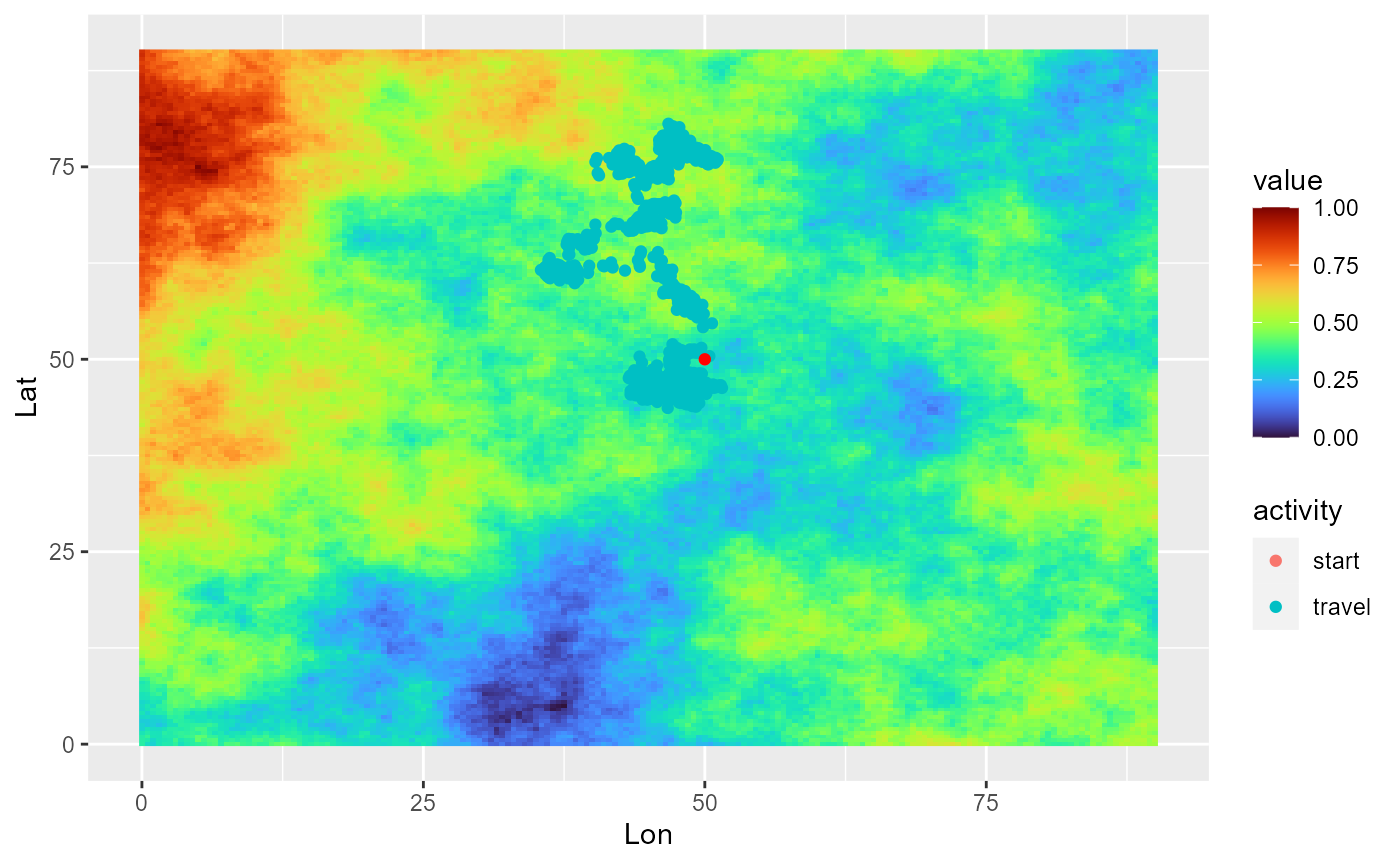
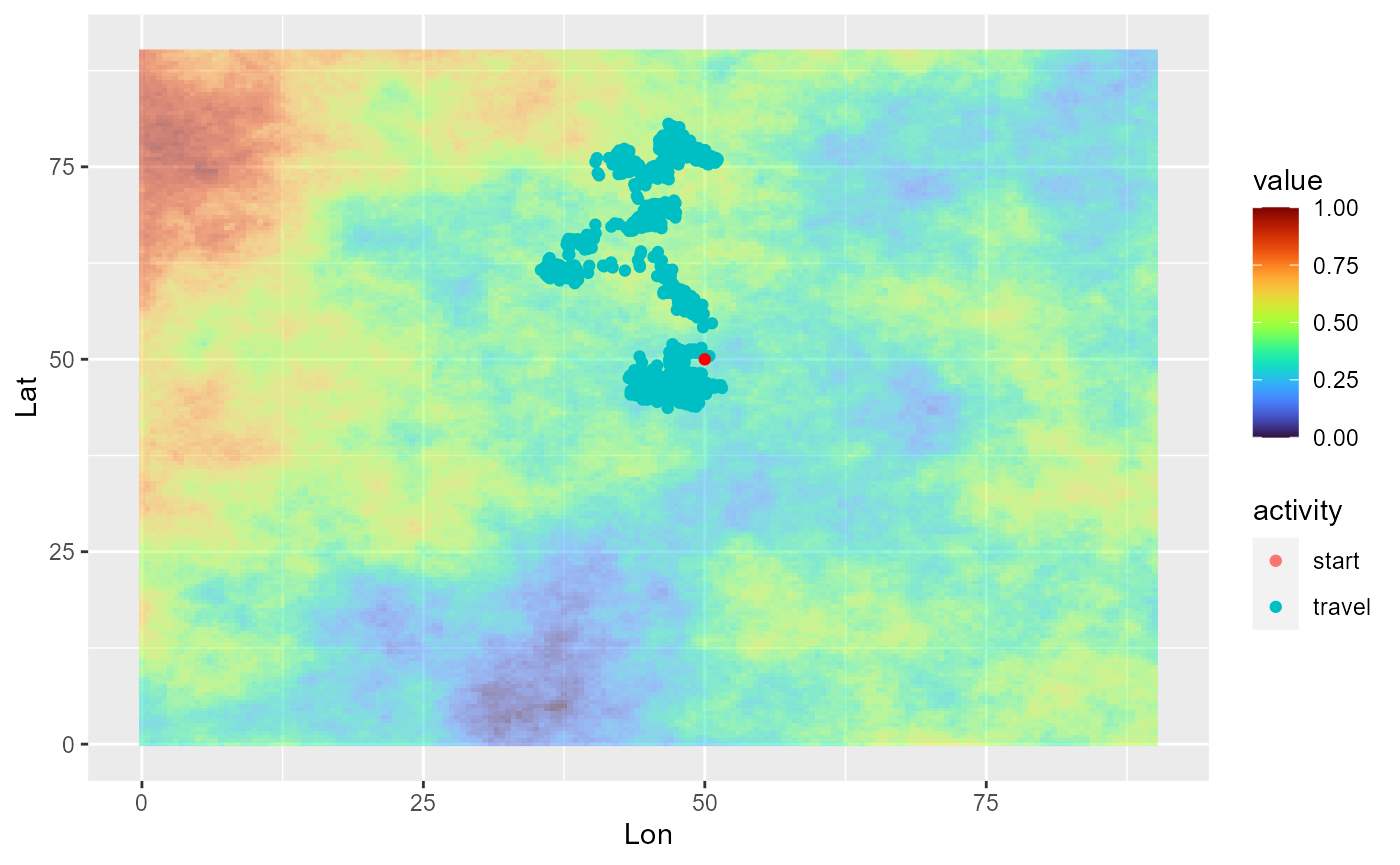
same as previous

diff --git a/inst/site/articles/simulate-virtual-environment.html b/inst/site/articles/simulate-virtual-environment.html
@@ -122,23 +122,12 @@ frame and raster formats (SpatRast).</p>
 <span><span class="co">#&gt;  $ y   : num  0 0 0 0 0 0 0 0 0 0 ...</span></span>
 <span><span class="co">#&gt;  $ sim1: num  4.71 5.35 4.81 7.42 6.74 ...</span></span>
 <span><span class="co">#&gt;  $ sim2: num  -0.377 -0.575 -0.766 -3.876 -4.276 ...</span></span>
-<span><span class="fu"><a href="https://rdrr.io/r/utils/str.html" class="external-link">str</a></span><span class="op">(</span><span class="fu"><a href="../reference/generate_env_layer.html">generate_env_layer</a></span><span class="op">(</span>norm <span class="op">=</span> <span class="cn">TRUE</span>, return_rasters <span class="op">=</span> <span class="cn">FALSE</span>, grid <span class="op">=</span> <span class="va">grid</span><span class="op">)</span><span class="op">)</span></span>
-<span><span class="co">#&gt; [using unconditional Gaussian simulation]</span></span>
-<span><span class="co">#&gt; 'data.frame':    32761 obs. of  4 variables:</span></span>
-<span><span class="co">#&gt;  $ x   : num  0 0.5 1 1.5 2 2.5 3 3.5 4 4.5 ...</span></span>
-<span><span class="co">#&gt;  $ y   : num  0 0 0 0 0 0 0 0 0 0 ...</span></span>
-<span><span class="co">#&gt;  $ sim1: num  0.213 0.234 0.217 0.301 0.279 ...</span></span>
-<span><span class="co">#&gt;  $ sim2: num  0.455 0.45 0.445 0.367 0.357 ...</span></span>
 <span></span>
 <span><span class="kw"><a href="https://rdrr.io/r/base/library.html" class="external-link">library</a></span><span class="op">(</span><span class="va"><a href="https://rspatial.org/terra/" class="external-link">terra</a></span><span class="op">)</span></span>
 <span><span class="co">#&gt; terra 1.7.18</span></span>
 <span><span class="fu"><a href="https://rdrr.io/pkg/terra/man/plot.html" class="external-link">plot</a></span><span class="op">(</span><span class="fu"><a href="../reference/generate_env_layer.html">generate_env_layer</a></span><span class="op">(</span>norm <span class="op">=</span> <span class="cn">TRUE</span>, return_rasters <span class="op">=</span> <span class="cn">TRUE</span>, grid <span class="op">=</span> <span class="va">grid</span><span class="op">)</span><span class="op">$</span><span class="va">rasters</span><span class="op">)</span></span>
 <span><span class="co">#&gt; [using unconditional Gaussian simulation]</span></span></code></pre></div>
 <p><img src="simulate-virtual-environment_files/figure-html/example-generate_env_layer-1.png" width="700"></p>
-<div class="sourceCode" id="cb4"><pre class="downlit sourceCode r">
-<code class="sourceCode R"><span><span class="fu"><a href="https://rdrr.io/pkg/terra/man/plot.html" class="external-link">plot</a></span><span class="op">(</span><span class="fu"><a href="../reference/generate_env_layer.html">generate_env_layer</a></span><span class="op">(</span>norm <span class="op">=</span> <span class="cn">FALSE</span>, return_rasters <span class="op">=</span> <span class="cn">TRUE</span>, grid <span class="op">=</span> <span class="va">grid</span><span class="op">)</span><span class="op">$</span><span class="va">rasters</span><span class="op">)</span></span>
-<span><span class="co">#&gt; [using unconditional Gaussian simulation]</span></span></code></pre></div>
-<p><img src="simulate-virtual-environment_files/figure-html/example-generate_env_layer-2.png" width="700"></p>
 </div>
 <div class="section level2">
 <h2 id="build-the-suitability-layer">Build the suitability layer<a class="anchor" aria-label="anchor" href="#build-the-suitability-layer"></a>
@@ -150,7 +139,7 @@ function, where a given environmental layer is simply scaled by the beta
 parameter (env*beta) and several leveraged env layers are additively
 combined. For more elaborate procedures, see the <a href="https://borisleroy.com/files/virtualspecies-tutorial.html" class="external-link">virtualspecies
 package</a>.</p>
-<div class="sourceCode" id="cb5"><pre class="downlit sourceCode r">
+<div class="sourceCode" id="cb4"><pre class="downlit sourceCode r">
 <code class="sourceCode R"><span><span class="kw"><a href="https://rdrr.io/r/base/library.html" class="external-link">library</a></span><span class="op">(</span><span class="va"><a href="https://rspatial.org/terra/" class="external-link">terra</a></span><span class="op">)</span></span>
 <span><span class="co"># simple example</span></span>
 <span><span class="va">grid</span> <span class="op">&lt;-</span> <span class="fu"><a href="../reference/create_grid.html">create_grid</a></span><span class="op">(</span><span class="op">)</span></span>
@@ -167,7 +156,7 @@ package</a>.</p>
 <span><span class="co">#&gt;  $ rasters  :S4 class 'SpatRaster' [package "terra"]</span></span>
 <span><span class="fu"><a href="https://rdrr.io/pkg/terra/man/plot.html" class="external-link">plot</a></span><span class="op">(</span><span class="va">rsce</span><span class="op">$</span><span class="va">rasters</span><span class="op">)</span></span></code></pre></div>
 <p><img src="simulate-virtual-environment_files/figure-html/example-generate_resource_layer-1.png" width="700"></p>
-<div class="sourceCode" id="cb6"><pre class="downlit sourceCode r">
+<div class="sourceCode" id="cb5"><pre class="downlit sourceCode r">
 <code class="sourceCode R"><span></span>
 <span><span class="co"># also works when coordinates are not names x,y</span></span>
 <span><span class="va">cdt2</span> <span class="op">&lt;-</span> <span class="fu"><a href="../reference/generate_env_layer.html">generate_env_layer</a></span><span class="op">(</span>grid <span class="op">=</span> <span class="va">grid</span>, n <span class="op">=</span> <span class="fl">3</span><span class="op">)</span><span class="op">$</span><span class="va">dataframe</span> <span class="op">|&gt;</span> <span class="fu">dplyr</span><span class="fu">::</span><span class="fu"><a href="https://dplyr.tidyverse.org/reference/rename.html" class="external-link">rename</a></span><span class="op">(</span>lon <span class="op">=</span> <span class="va">x</span>, lat <span class="op">=</span> <span class="va">y</span><span class="op">)</span></span>

diff --git a/inst/site/reference/simulate_trajectory_CPF.html b/inst/site/reference/simulate_trajectory_CPF.html
@@ -217,7 +217,7 @@ When individuals reaches the threshold distance to colony (max_dist), or the tri
 <span class="r-in"><span></span></span>
 <span class="r-in"><span><span class="co"># view the trajectory</span></span></span>
 <span class="r-in"><span><span class="fu"><a href="https://ggplot2.tidyverse.org/reference/ggplot.html" class="external-link">ggplot</a></span><span class="op">(</span><span class="va">single_traj</span><span class="op">)</span> <span class="op">+</span></span></span>
-<span class="r-in"><span>  <span class="fu"><a href="https://dieghernan.github.io/tidyterra/reference/geom_spatraster.html" class="external-link">geom_spatraster</a></span><span class="op">(</span>data <span class="op">=</span> <span class="va">cdt</span><span class="op">$</span><span class="va">rasters</span><span class="op">)</span> <span class="op">+</span> </span></span>
+<span class="r-in"><span>  <span class="fu"><a href="https://dieghernan.github.io/tidyterra/reference/geom_spatraster.html" class="external-link">geom_spatraster</a></span><span class="op">(</span>data <span class="op">=</span> <span class="va">cdt</span><span class="op">$</span><span class="va">rasters</span>, alpha <span class="op">=</span> <span class="fl">0.5</span><span class="op">)</span> <span class="op">+</span> </span></span>
 <span class="r-in"><span>  <span class="fu"><a href="https://ggplot2.tidyverse.org/reference/geom_point.html" class="external-link">geom_point</a></span><span class="op">(</span><span class="fu"><a href="https://ggplot2.tidyverse.org/reference/aes.html" class="external-link">aes</a></span><span class="op">(</span>x <span class="op">=</span> <span class="va">Lon</span>, y <span class="op">=</span> <span class="va">Lat</span>, color <span class="op">=</span> <span class="va">activity</span><span class="op">)</span><span class="op">)</span> <span class="op">+</span></span></span>
 <span class="r-in"><span>  <span class="fu"><a href="https://ggplot2.tidyverse.org/reference/geom_point.html" class="external-link">geom_point</a></span><span class="op">(</span>data <span class="op">=</span> <span class="va">colony_location</span>, <span class="fu"><a href="https://ggplot2.tidyverse.org/reference/aes.html" class="external-link">aes</a></span><span class="op">(</span>x <span class="op">=</span> <span class="va">Lon</span>, y <span class="op">=</span> <span class="va">Lat</span><span class="op">)</span>, col <span class="op">=</span> <span class="st">"red"</span><span class="op">)</span> <span class="op">+</span></span></span>
 <span class="r-in"><span>  <span class="fu"><a href="https://sjmgarnier.github.io/viridis/reference/scale_viridis.html" class="external-link">scale_fill_viridis</a></span><span class="op">(</span>option <span class="op">=</span> <span class="st">"H"</span><span class="op">)</span> </span></span>
